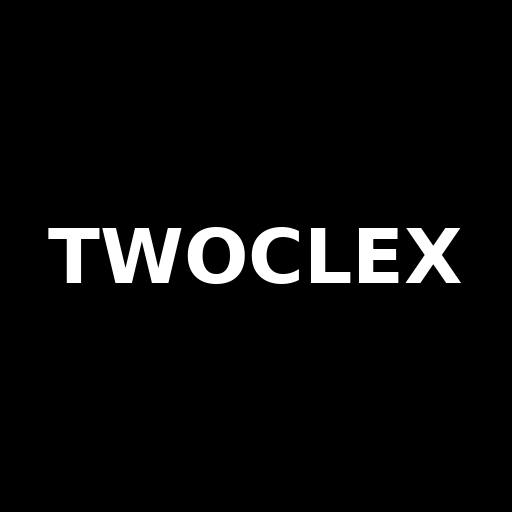
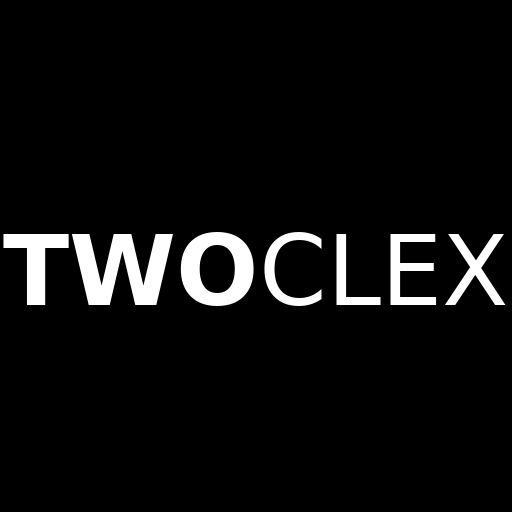
Add files via upload

Changed region(s): [[0.0, 0.4375, 1.0, 0.625]]

diff --git a/index.html b/index.html
@@ -10,10 +10,17 @@
   <link rel="manifest" href="manifest.json" />
   <link rel="icon" href="icon-192.png?v=20260809-2" type="image/png" />
   <link rel="apple-touch-icon" sizes="180x180" href="apple-touch-icon.png?v=20260809-2" />
+
+<style>
+.brand-two{font-weight:900;}
+.brand-clex{font-weight:500;}
+.brand-wordmark{letter-spacing:-0.04em;white-space:nowrap;}
+</style>
+
 </head>
 <body>
   <header class="site-header">
-    <a class="brand brand-wordmark" href="#top" aria-label="TWOCLEX Startseite">TWOCLEX</a>
+    <a class="brand brand-wordmark" href="#top" aria-label="TWOCLEX Startseite"><span class="brand-two">TWO</span><span class="brand-clex">CLEX</span></a>
     <nav class="nav">
       <a href="#idee">Die Idee</a>
       <a href="#produkt">Shop</a>
@@ -124,7 +131,7 @@
   </main>
 
   <footer>
-    <a class="brand brand-wordmark footer-brand" href="#top">TWOCLEX</a>
+    <a class="brand brand-wordmark footer-brand" href="#top"><span class="brand-two">TWO</span><span class="brand-clex">CLEX</span></a>
     <p>Socken, die zusammenbleiben.</p>
     <p class="footer-note">Demo-Webshop · Schweiz · 2026</p>
   </footer>
